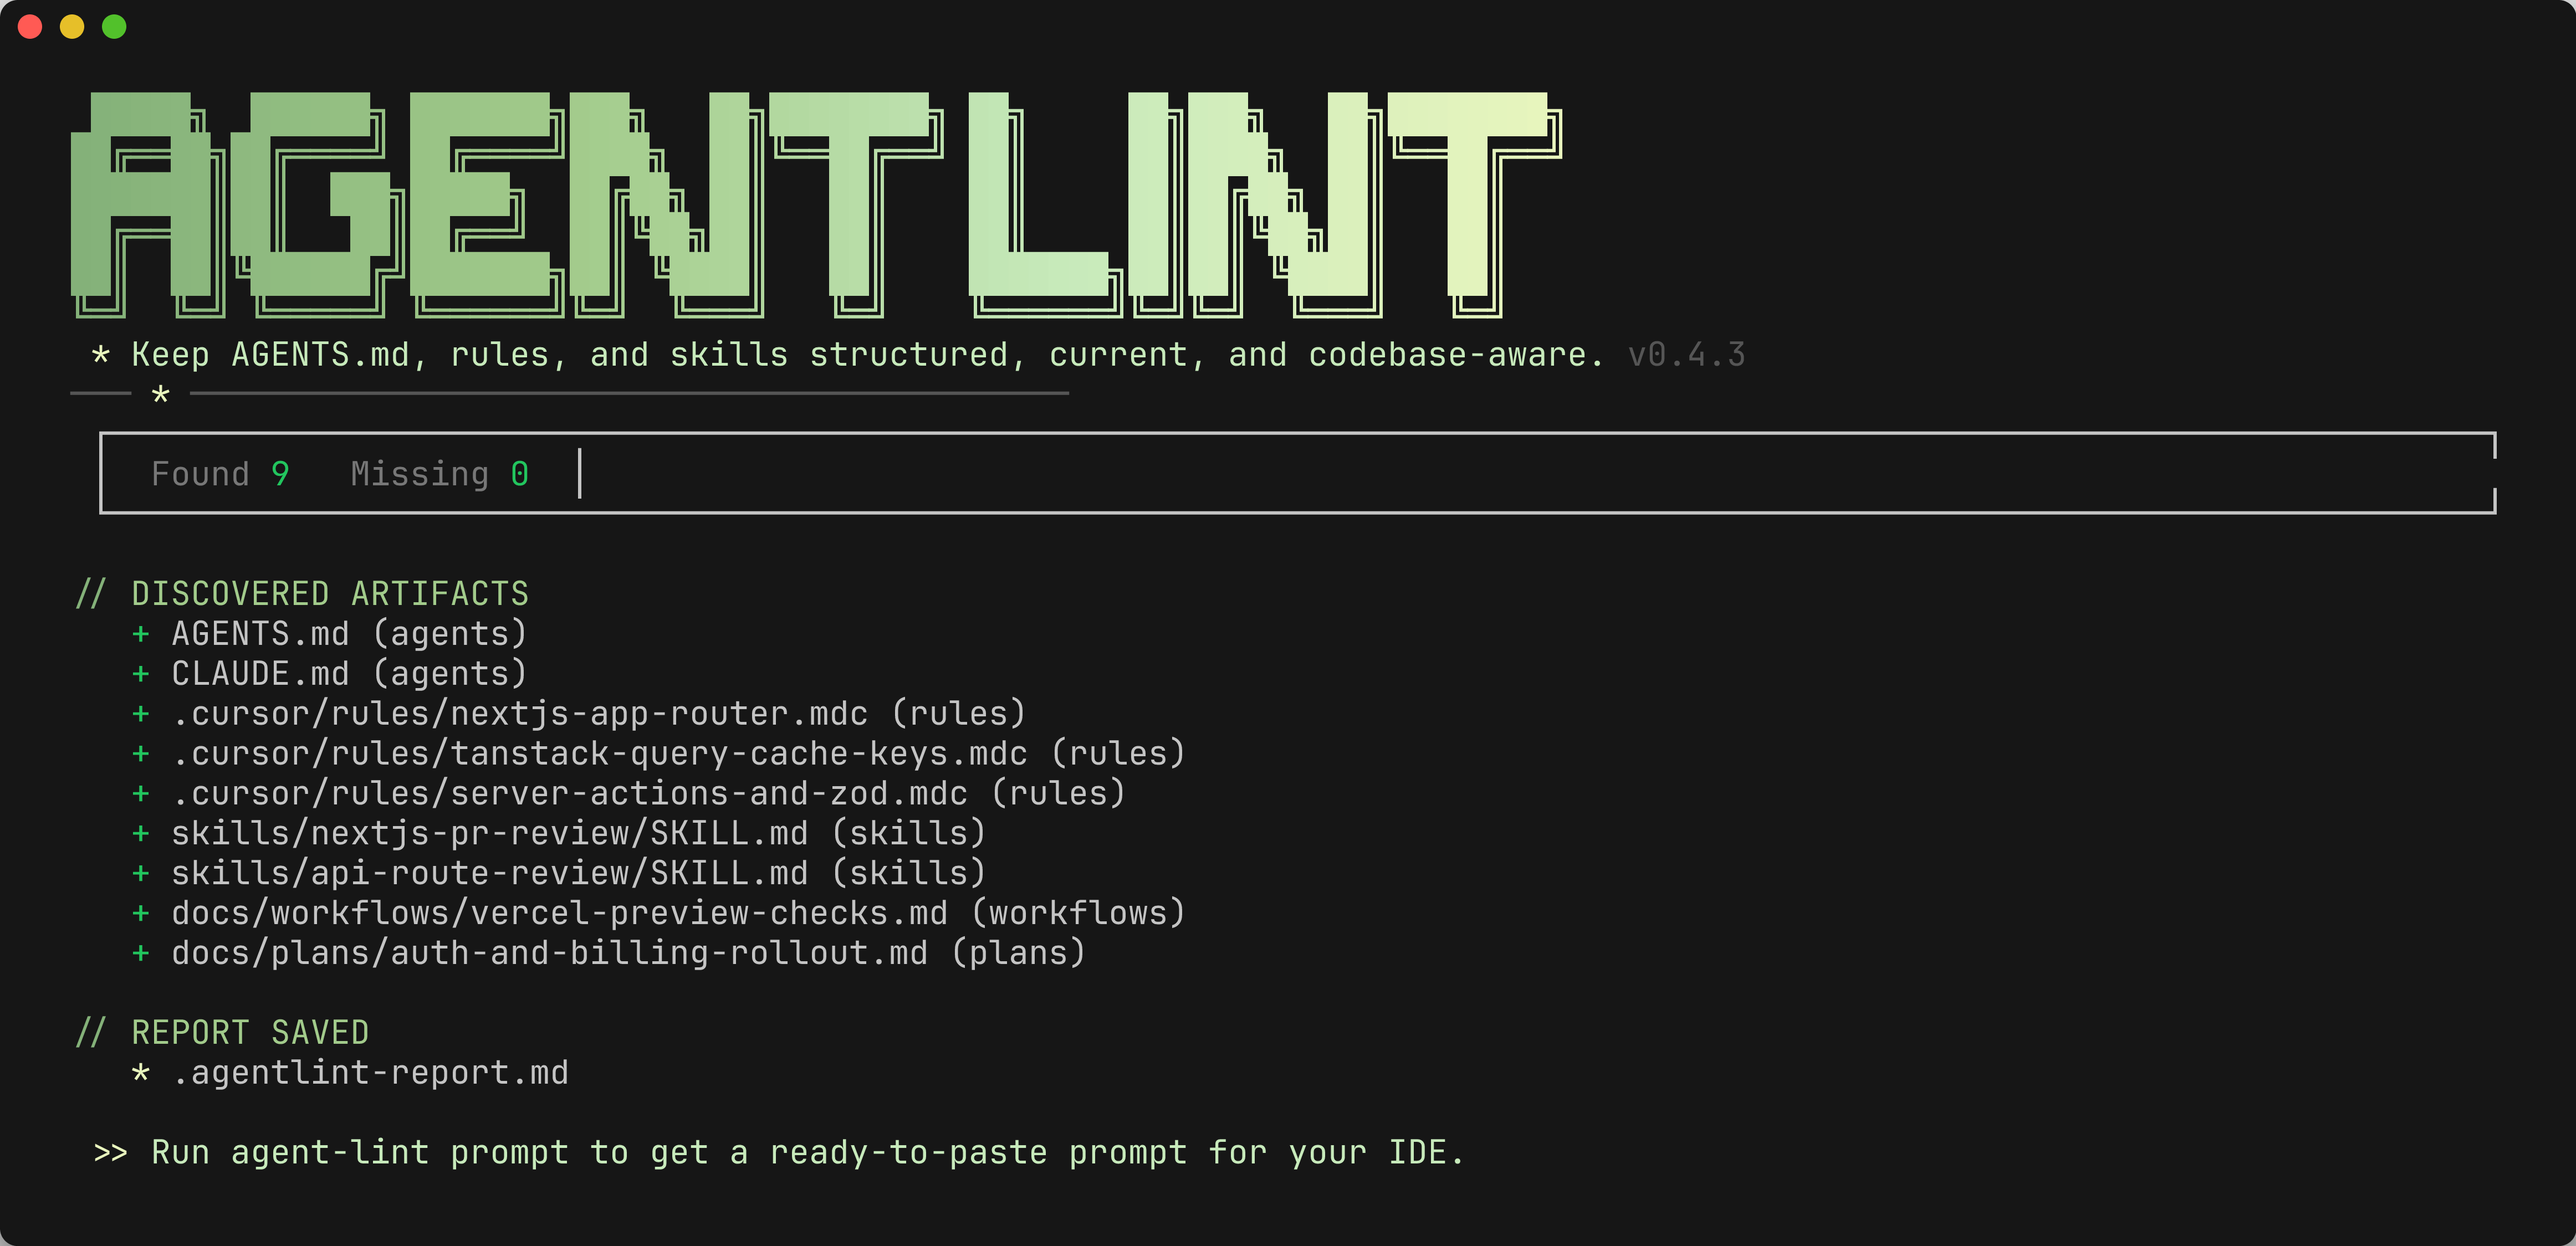
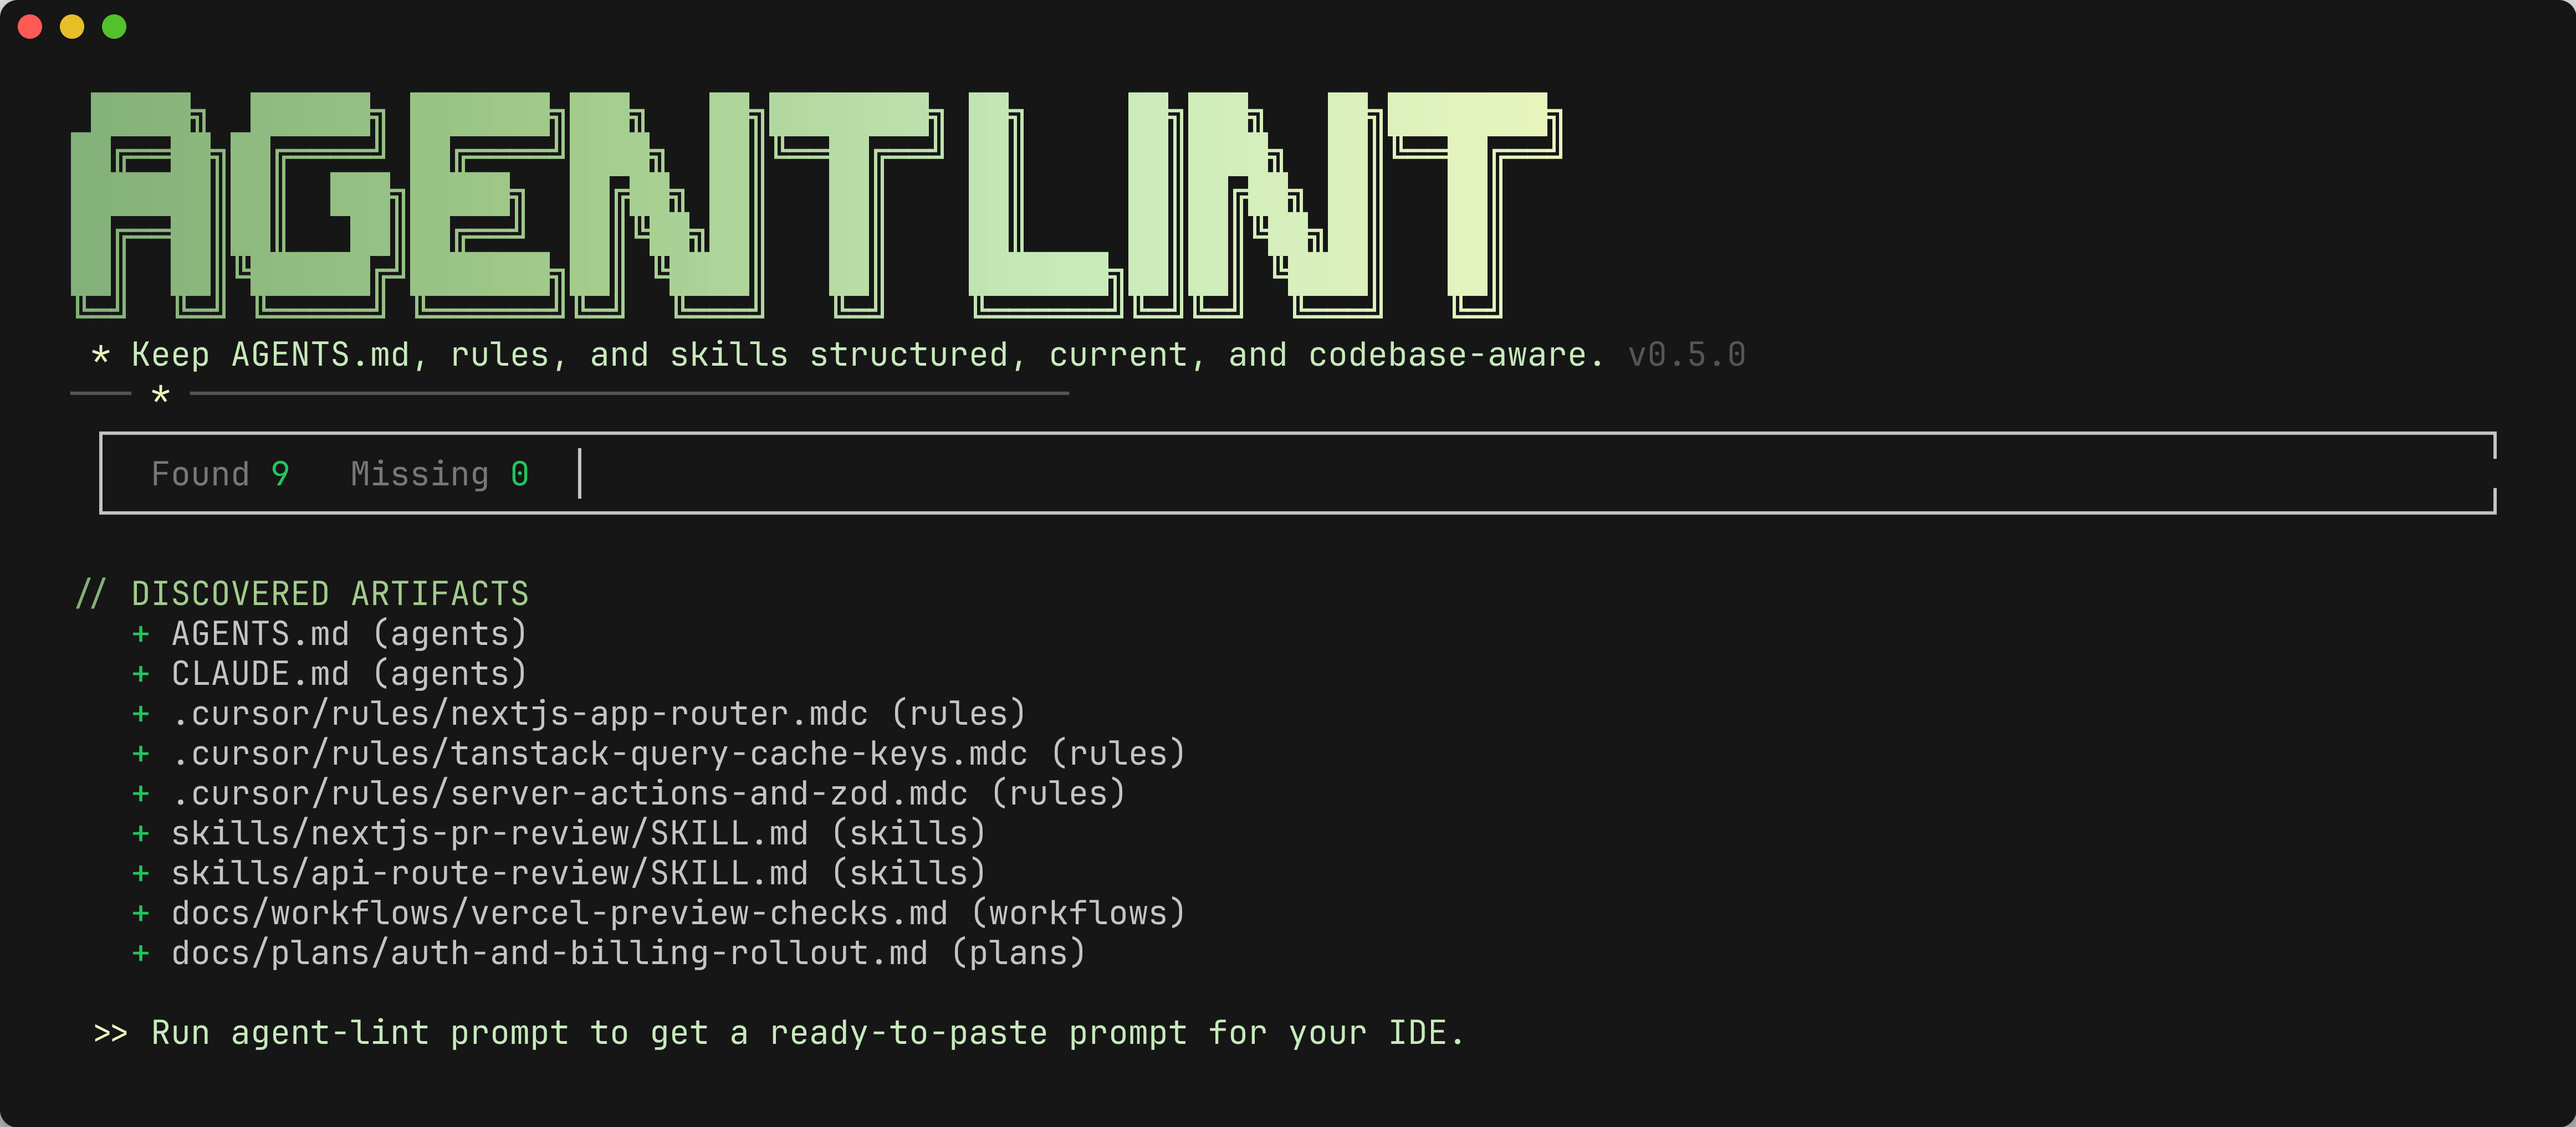
fix(docs): refresh doctor demo and align maintenance tests

Changed region(s): [[0.0312, 0.0619, 0.9671, 0.8673], [0.0312, 0.8982, 0.5615, 0.9292]]

diff --git a/packages/core/tests/maintenance-snippet.test.ts b/packages/core/tests/maintenance-snippet.test.ts
@@ -52,7 +52,7 @@ describe("maintenance-snippet", () => {
 
   it("teaches the agent to infer Agent Lint from plain-English context requests", () => {
     const result = buildMaintenanceSnippet("generic");
-    expect(result.snippet).toContain("plain-English requests");
+    expect(result.snippet).toContain("natural language requests");
     expect(result.snippet).toContain("AGENTS.md");
     expect(result.snippet).toContain("rules, skills, workflows, or plans");
   });

diff --git a/packages/cli/tests/maintenance-writer.test.ts b/packages/cli/tests/maintenance-writer.test.ts
@@ -86,7 +86,7 @@ describe("installMaintenanceRule", () => {
       const finalRaw = fs.readFileSync(targetPath, "utf-8");
 
       expect(result.status).toBe("exists");
-      expect((finalRaw.match(/plain-English requests/g) ?? [])).toHaveLength(1);
+      expect((finalRaw.match(/natural language requests/g) ?? [])).toHaveLength(1);
     } finally {
       fs.rmSync(tmpDir, { recursive: true, force: true });
     }
